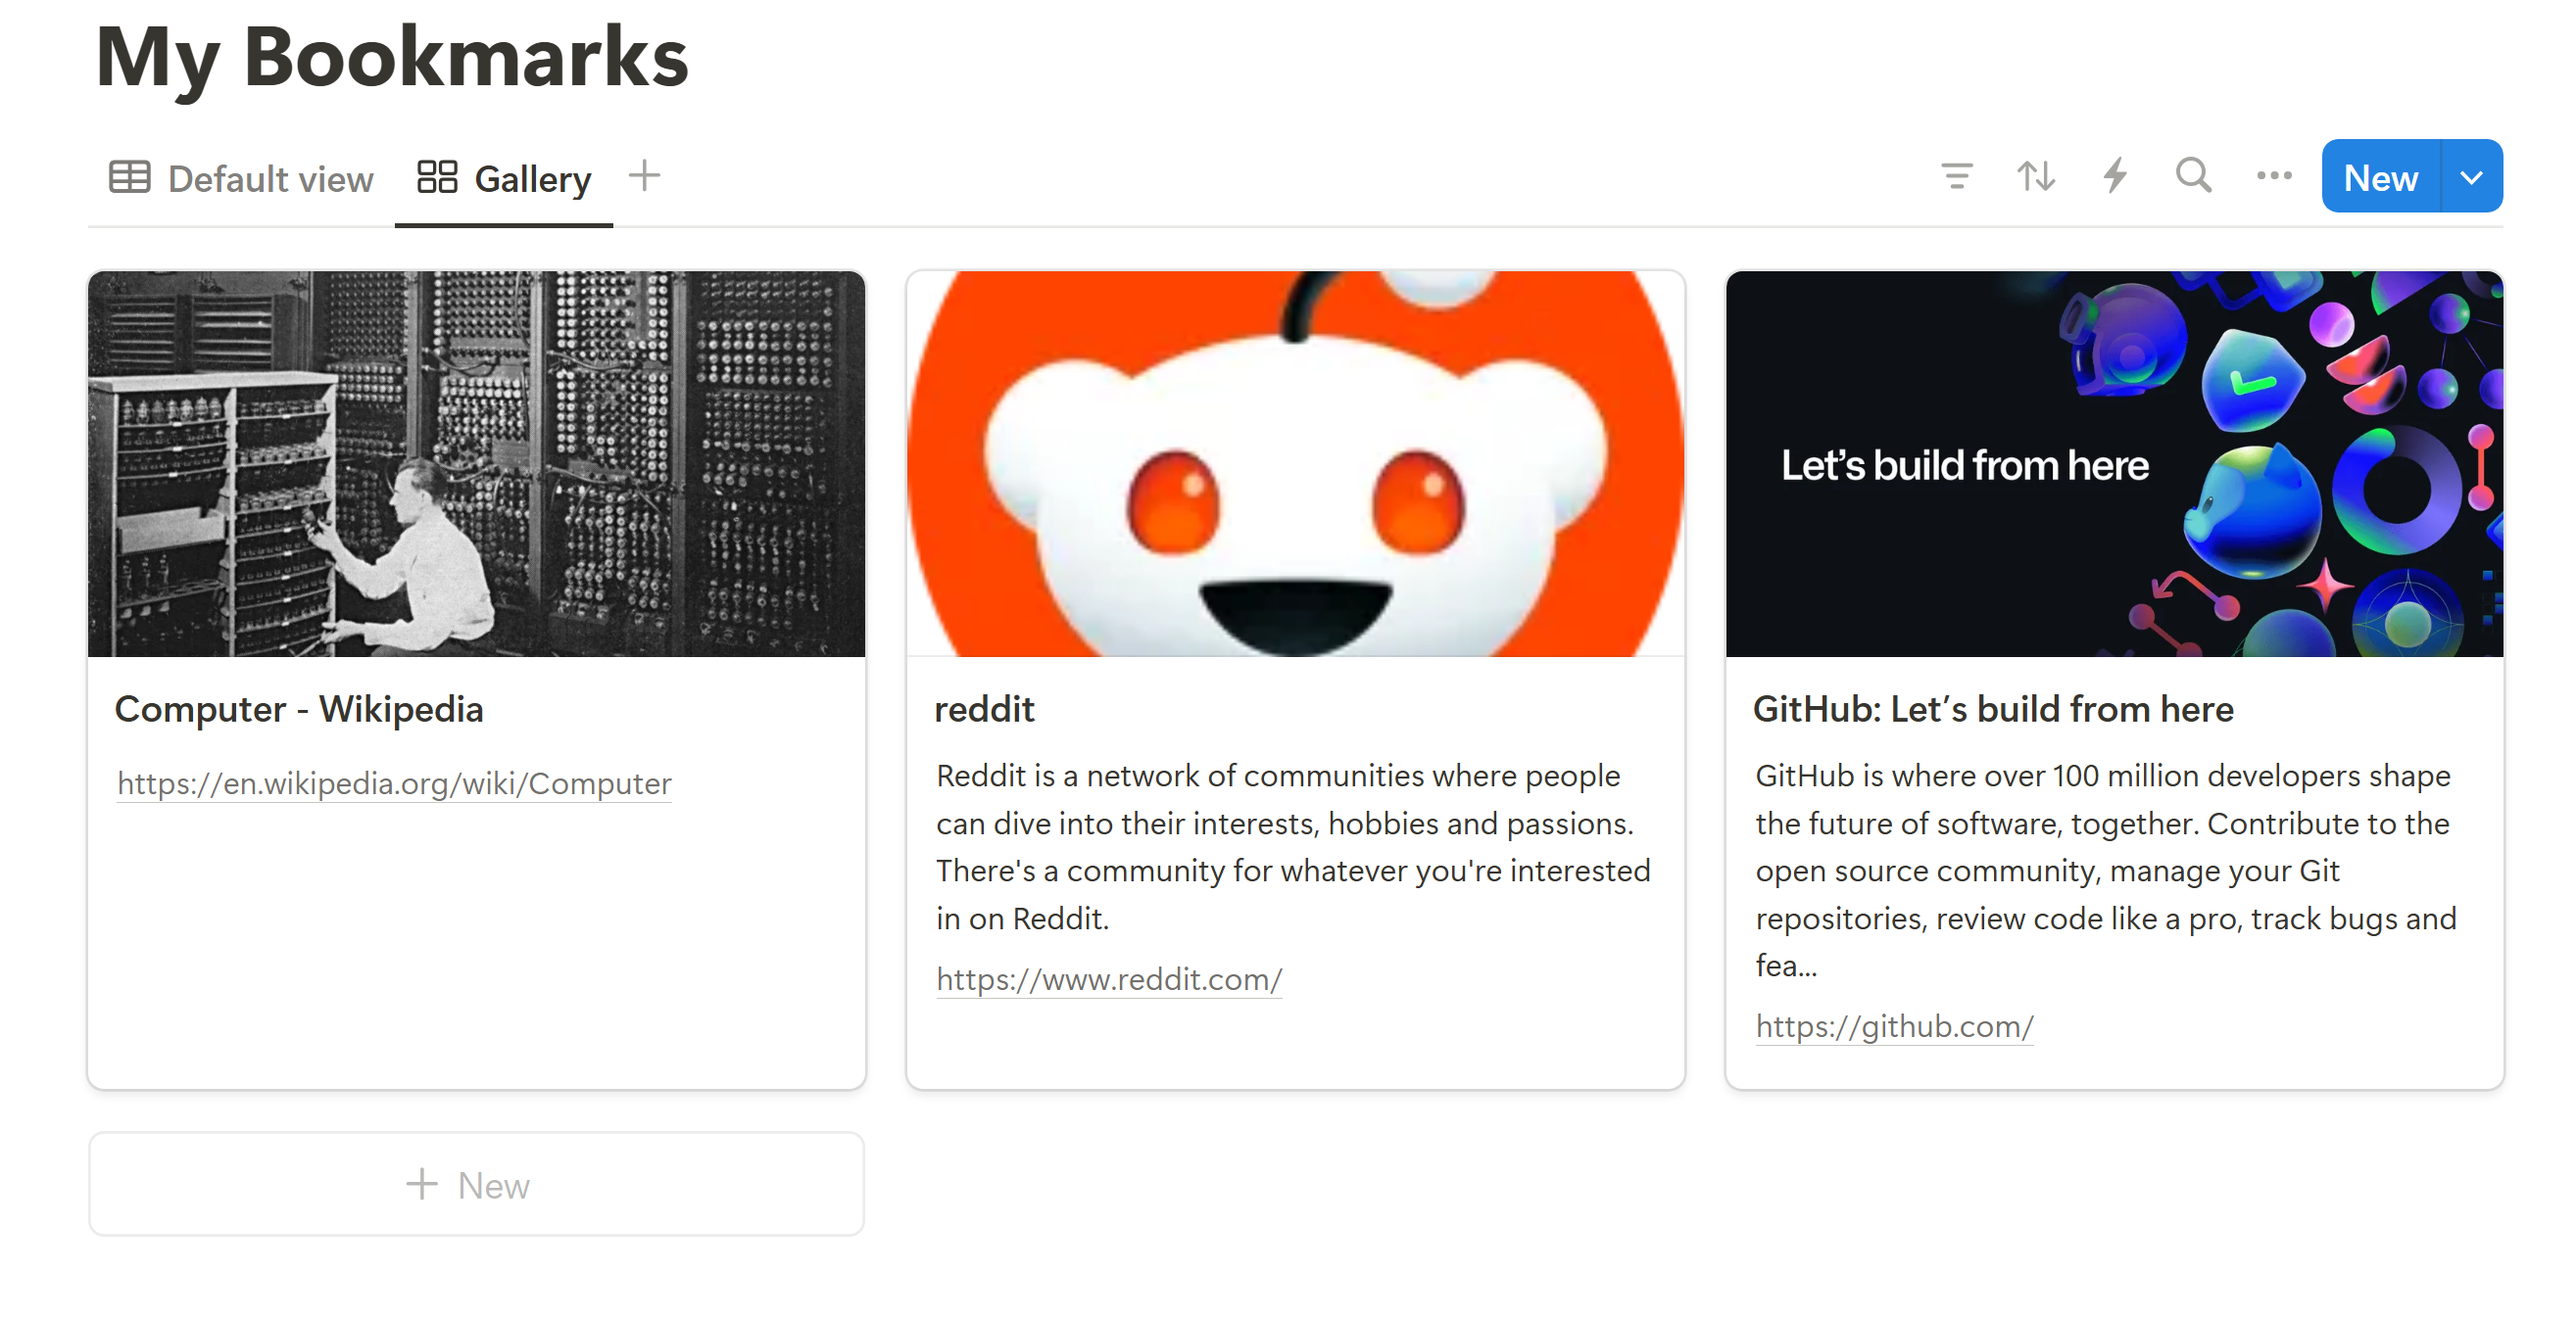
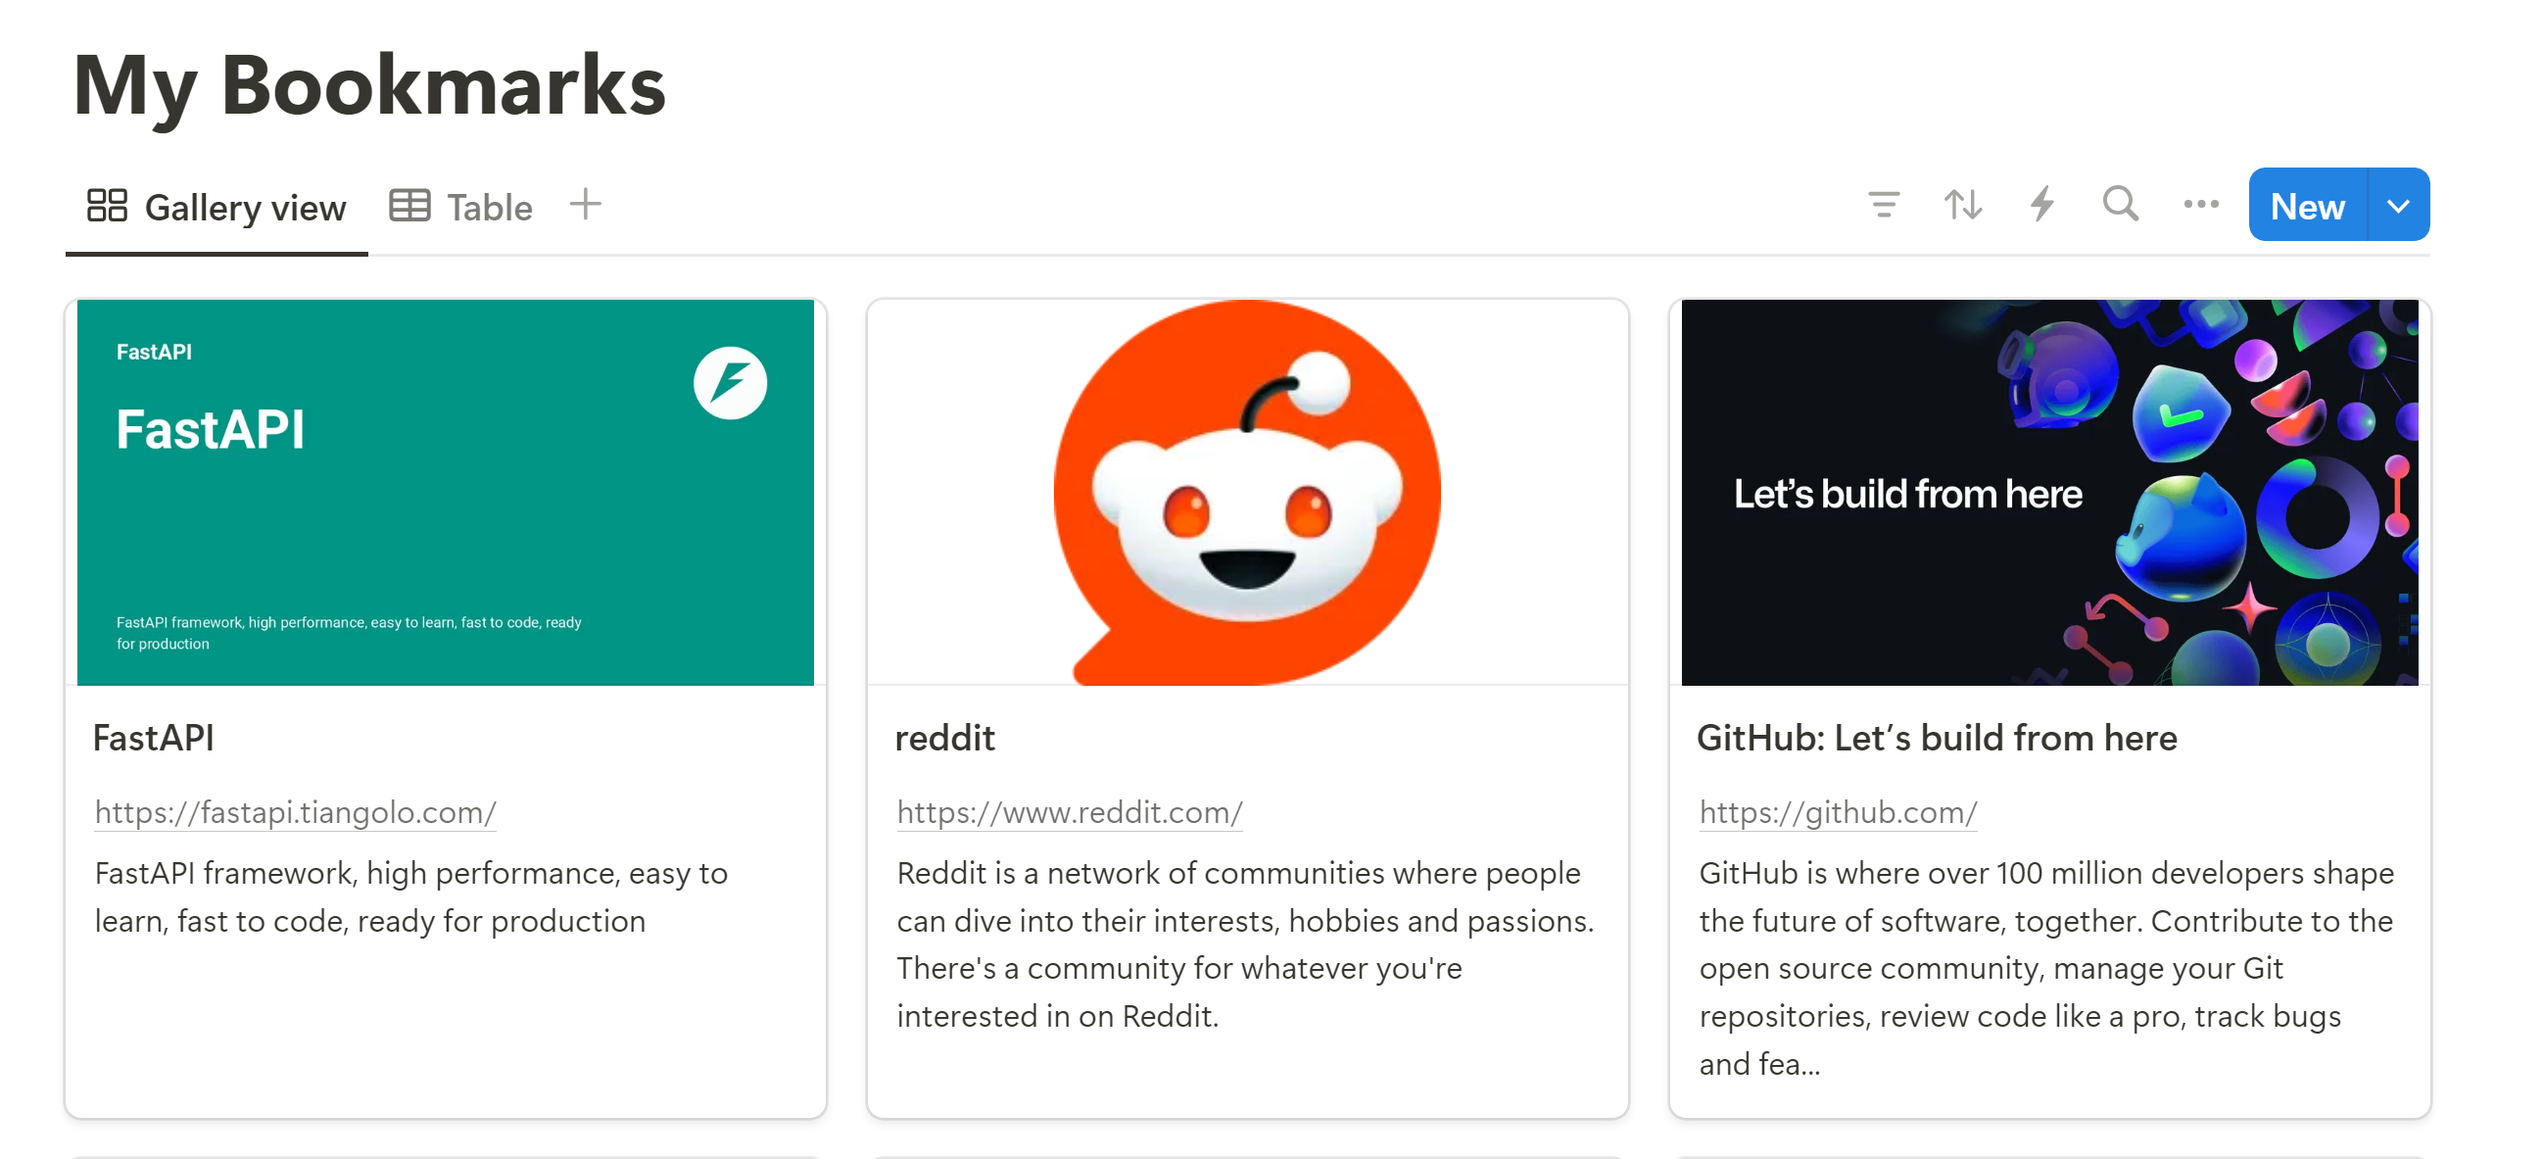
fix

diff --git a/add_to_db.py b/add_to_db.py
@@ -28,9 +28,9 @@ def add_bookmark_to_notion(url: str):
     bookmark = Bookmark.from_url(url)
     print(bookmark.title)
     data = prepare_db_data(database_id, bookmark)
-    send_to_db(data)
+    return send_to_db(data)
 
 
 if __name__ == '__main__':
-    for url in ['https://github.com/', 'https://www.reddit.com/', 'https://en.wikipedia.org/wiki/Computer']:
+    for url in ['https://github.com/', 'https://www.reddit.com/', 'https://fastapi.tiangolo.com/']:
         add_bookmark_to_notion(url)

diff --git a/README.md b/README.md
@@ -5,7 +5,7 @@ Fetches metadata (title, description, image, and URL) from a given website and n
 Can be integrated in a **Telegram bot** or run easily from the **cli**. The only arg is the URL.
 
 
-<img src="img/new_db_records.png" style="max-width: 600px" alt="new_db">
+<img src="img/new_db_records.png" style="max-width: 500px" alt="new_db">
 
 ## Instructions
 
@@ -17,7 +17,7 @@ Create a new database using `create_db.py` - fill in the `api_key`, `page_id` in
 
 The page will look like this:
 
-<img src="img/new_page_new_db.png" style="max-width: 600px" alt="new_db">
+<img src="img/new_page_new_db.png" style="max-width: 500px" alt="new_db">
 
 On the top right, click '...'/Properties/Sort by 'Created Date'.
 
